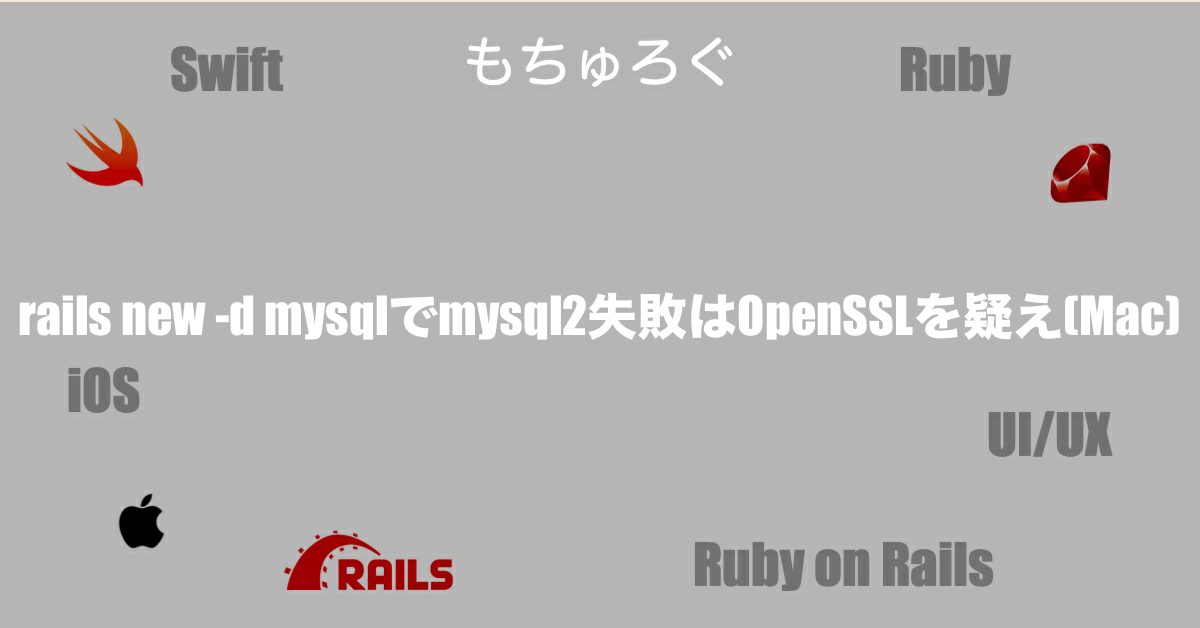
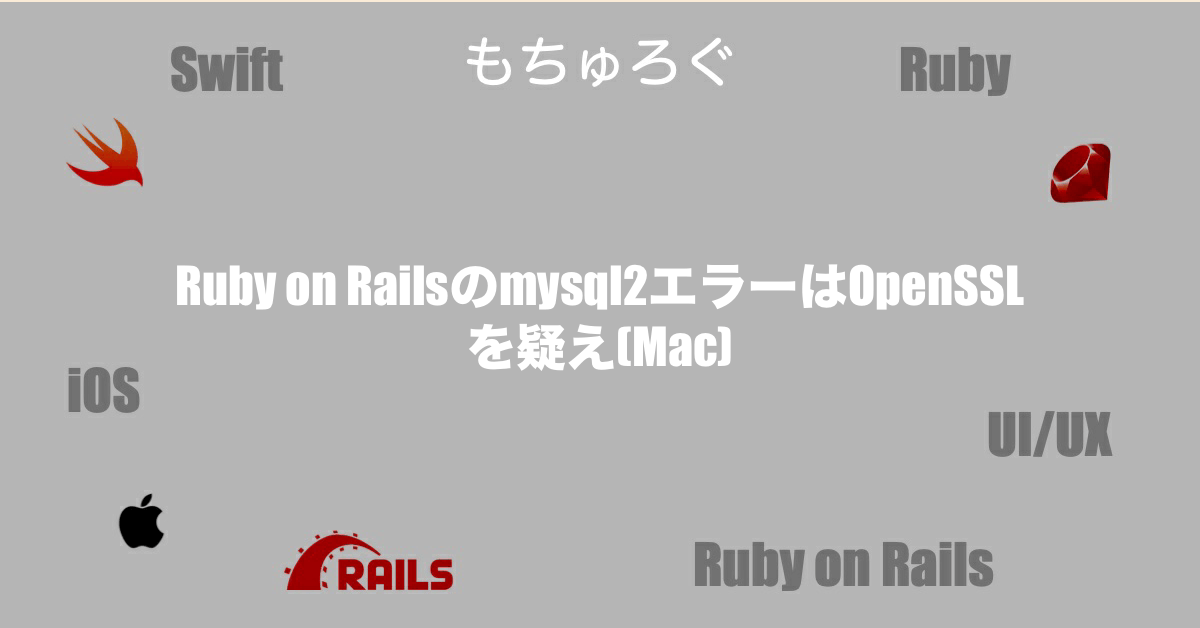
Deploy:

Changed region(s): [[0.0, 0.4236, 0.9867, 0.6051]]

diff --git a/docs/ruby/rails/ruby-rails-mysql2-error.html b/docs/ruby/rails/ruby-rails-mysql2-error.html
@@ -4,15 +4,15 @@
     <meta charset="utf-8">
     <meta name="viewport" content="width=device-width, initial-scale=1">
     
-      <title>rails new -d mysqlでmysql2失敗はOpenSSLを疑え(Mac) - もちゅろぐ</title>
+      <title>Ruby on Railsのmysql2エラーはOpenSSLを疑え(Mac) - もちゅろぐ</title>
     
 
     <!-- Begin Jekyll SEO tag v2.5.0 -->
 <meta name="generator" content="Jekyll v3.8.5" />
-<meta property="og:title" content="rails new -d mysqlでmysql2失敗はOpenSSLを疑え(Mac)" />
+<meta property="og:title" content="Ruby on Railsのmysql2エラーはOpenSSLを疑え(Mac)" />
 <meta property="og:locale" content="ja_JP" />
-<meta name="description" content="前提環境" />
-<meta property="og:description" content="前提環境" />
+<meta name="description" content="Mac上でRuby on Railsのrails newでDatabaseはMySQL使ったらmysql2でインストールエラー起きたので調査してOpenSSLの問題特定とbundle configを使ったビルドにOpenSSLパスを渡して解決する手順などをまとめました。" />
+<meta property="og:description" content="Mac上でRuby on Railsのrails newでDatabaseはMySQL使ったらmysql2でインストールエラー起きたので調査してOpenSSLの問題特定とbundle configを使ったビルドにOpenSSLパスを渡して解決する手順などをまとめました。" />
 <link rel="canonical" href="https://blog.mothule.com/ruby/rails/ruby-rails-mysql2-error" />
 <meta property="og:url" content="https://blog.mothule.com/ruby/rails/ruby-rails-mysql2-error" />
 <meta property="og:site_name" content="もちゅろぐ" />
@@ -22,14 +22,14 @@
 <meta name="twitter:card" content="summary_large_image" />
 <meta name="twitter:site" content="@mothule" />
 <script type="application/ld+json">
-{"image":"https://blog.mothule.com/assets/images/2019-03-22-ruby-rails-mysql2-error.png","url":"https://blog.mothule.com/ruby/rails/ruby-rails-mysql2-error","headline":"rails new -d mysqlでmysql2失敗はOpenSSLを疑え(Mac)","dateModified":"2020-02-02T20:33:06+09:00","datePublished":"2019-03-22T00:00:00+09:00","description":"前提環境","mainEntityOfPage":{"@type":"WebPage","@id":"https://blog.mothule.com/ruby/rails/ruby-rails-mysql2-error"},"@type":"BlogPosting","@context":"http://schema.org"}</script>
+{"image":"https://blog.mothule.com/assets/images/2019-03-22-ruby-rails-mysql2-error.png","url":"https://blog.mothule.com/ruby/rails/ruby-rails-mysql2-error","headline":"Ruby on Railsのmysql2エラーはOpenSSLを疑え(Mac)","dateModified":"2020-04-14T06:56:27+09:00","datePublished":"2019-03-22T00:00:00+09:00","description":"Mac上でRuby on Railsのrails newでDatabaseはMySQL使ったらmysql2でインストールエラー起きたので調査してOpenSSLの問題特定とbundle configを使ったビルドにOpenSSLパスを渡して解決する手順などをまとめました。","mainEntityOfPage":{"@type":"WebPage","@id":"https://blog.mothule.com/ruby/rails/ruby-rails-mysql2-error"},"@type":"BlogPosting","@context":"http://schema.org"}</script>
 <!-- End Jekyll SEO tag -->
 
 
     
     
-    <meta name="twitter:title" content="rails new -d mysqlでmysql2失敗はOpenSSLを疑え(Mac)">
-    <meta name="twitter:description" content="前提環境">
+    <meta name="twitter:title" content="Ruby on Railsのmysql2エラーはOpenSSLを疑え(Mac)">
+    <meta name="twitter:description" content="Mac上でRuby on Railsのrails newでDatabaseはMySQL使ったらmysql2でインストールエラー起きたので調査してOpenSSLの問題特定とbundle configを使ったビルドにOpenSSLパスを渡して解決する手順などをまとめました。">
     <meta name="twitter:image:src" content="https://blog.mothule.com/assets/images/2019-03-22-ruby-rails-mysql2-error.png">
 
     <link href="https://stackpath.bootstrapcdn.com/bootstrap/4.3.1/css/bootstrap.min.css"
@@ -135,7 +135,7 @@
         
         
           <li>
-            rails new -d mysqlでmysql2失敗はOpenSSLを疑え(Mac)
+            Ruby on Railsのmysql2エラーはOpenSSLを疑え(Mac)
           </li>
         
       
@@ -149,12 +149,12 @@
 
   
     <div class="eye-catch">
-      <img style="width: 100%; object-fix: contain;" src="/assets/images/2019-03-22-ruby-rails-mysql2-error.png" alt="rails new -d mysqlでmysql2失敗はOpenSSLを疑え(Mac)">
+      <img style="width: 100%; object-fix: contain;" src="/assets/images/2019-03-22-ruby-rails-mysql2-error.png" alt="Ruby on Railsのmysql2エラーはOpenSSLを疑え(Mac)">
     </div>
   
 
   <div class="post-content-title border-bottom mb-4">
-    <h1>rails new -d mysqlでmysql2失敗はOpenSSLを疑え(Mac)</h1>
+    <h1>Ruby on Railsのmysql2エラーはOpenSSLを疑え(Mac)</h1>
 
     <div class="post-content-tags">
       <ul class="list-inline">
@@ -173,18 +173,45 @@
   <div class="post-content-toc">
     <p>Table of Contents</p>
     <ul>
-  <li><a href="#前提環境">前提環境</a></li>
-  <li><a href="#rails-new-のときに-mysql-を指定">rails new のときに mysql を指定</a></li>
-  <li><a href="#rails-newでmysql2のインストールが失敗する">rails newでmysql2のインストールが失敗する</a></li>
-  <li><a href="#brewでopensslがインストールされてなければopensslをインストールする">brewでopensslがインストールされてなければ、opensslをインストールする</a></li>
-  <li><a href="#bundle-configでmysql2のビルドオプションを変更する">bundle configでmysql2のビルドオプションを変更する</a></li>
-  <li><a href="#rails-newでのbundle-installをしないようにする">rails newでのbundle installをしないようにする</a></li>
-  <li><a href="#改めてbundle-configでmysql2のビルドコンフィグを設定">改めてbundle configでmysql2のビルドコンフィグを設定</a></li>
-  <li><a href="#bundle-installを実行">bundle installを実行</a></li>
+  <li><a href="#rails-newのmysql2インストールが失敗する">rails newのmysql2インストールが失敗する</a>
+    <ul>
+      <li><a href="#前提環境">前提環境</a></li>
+      <li><a href="#rails-newのときにmysqlを指定">rails newのときにMySQLを指定</a></li>
+      <li><a href="#mysql2-gemのインストールに失敗する">mysql2 gemのインストールに失敗する</a></li>
+    </ul>
+  </li>
+  <li><a href="#mysql2のsslエラー原因を調査する">mysql2のsslエラー原因を調査する</a>
+    <ul>
+      <li><a href="#opensslがインストールされているか確認する">OpenSSLがインストールされているか確認する</a>
+        <ul>
+          <li><a href="#opensslとはツールキットである">OpenSSLとはツールキットである</a></li>
+        </ul>
+      </li>
+      <li><a href="#brewでopensslをインストールする">brewでOpenSSLをインストールする</a></li>
+      <li><a href="#mysql2インストールのリンクで見つけられるようにする">mysql2インストールのリンクで見つけられるようにする</a></li>
+    </ul>
+  </li>
+  <li><a href="#mysql2のビルド設定にopensslパスを渡す">mysql2のビルド設定にOpenSSLパスを渡す</a>
+    <ul>
+      <li><a href="#bundle-configでopensslパス情報を渡す">bundle configでOpenSSLパス情報を渡す</a></li>
+      <li><a href="#rails-newでのbundle-installをしないようにする">rails newでのbundle installをしないようにする</a></li>
+    </ul>
+  </li>
+  <li><a href="#mysql2にsslパスを通してbundle-installを実行">mysql2にSSLパスを通してbundle installを実行</a></li>
+  <li><a href="#rails-newでmysql2エラーの対処法まとめ">rails newでmysql2エラーの対処法まとめ</a></li>
 </ul>
   </div>
   <section>
-  <h2 id="前提環境">前提環境</h2>
+  <p>この記事はMac上でRuby on Railsで新しくアプリケーションを作る時にデータベースをMySQLを指定したらmysql2 gemが失敗したので調査したらOpenSSLに問題があったのでその時に調べたことをまとめた記事です。</p>
+
+<h2 id="rails-newのmysql2インストールが失敗する">rails newのmysql2インストールが失敗する</h2>
+
+<p>ことの始まりは、Ruby on Railsでアプリを調査する必要があったため、MySQLの古いバージョンでRailsアプリケーションを作成しました。
+しかし、MySQLアダプタであるmysql2 gemのインストールでエラーが発生しました。</p>
+
+<p>構築しようとしたときの環境は次の通りです。</p>
+
+<h3 id="前提環境">前提環境</h3>
 
 <ul>
   <li>MacOS Mojave 10.14.2</li>
@@ -201,18 +228,20 @@
   <li>rails 5.0.7.2</li>
 </ul>
 
-<p>上記構成でrailsアプリを作るときに初めからdatabaseをMySQLにしたら、いくつか失敗したのでその解消法についてまとめます。</p>
+<p>MySQLのバージョンが5.6系と非常に古いバージョンになります。</p>
 
-<h2 id="rails-new-のときに-mysql-を指定">rails new のときに mysql を指定</h2>
-<p>デフォルトだとsqliteになってdatabase.ymlを書き直さないといけないので初めからdatabaseをmysqlに指定したい場合</p>
+<h3 id="rails-newのときにmysqlを指定">rails newのときにMySQLを指定</h3>
+<p>データベースはデフォルトだとSQLiteになってdatabase.ymlを書き直さないといけないので初めからdatabaseをmysqlに指定したい場合は、<code class="highlighter-rouge">-d</code> または <code class="highlighter-rouge">--database</code> オプションで<code class="highlighter-rouge">mysql</code>を指定します。</p>
 
 <div class="language-sh highlighter-rouge"><div class="highlight"><pre class="highlight"><code><span class="nv">$ </span>rails new &lt;app name&gt; <span class="nt">-d</span> mysql
 </code></pre></div></div>
-<p>または</p>
-<div class="language-sh highlighter-rouge"><div class="highlight"><pre class="highlight"><code><span class="nv">$ </span>rails new &lt;app name&gt; <span class="nt">-database</span><span class="o">=</span>mysql
-</code></pre></div></div>
 
-<h2 id="rails-newでmysql2のインストールが失敗する">rails newでmysql2のインストールが失敗する</h2>
+<p><code class="highlighter-rouge">&lt;app name&gt;</code>は適当にアプリ名を入れてください。
+このコマンドを実行します。</p>
+
+<h3 id="mysql2-gemのインストールに失敗する">mysql2 gemのインストールに失敗する</h3>
+
+<p>コマンドを実行すると次のようなエラーログが出力されます。</p>
 
 <div class="language-sh highlighter-rouge"><div class="highlight"><pre class="highlight"><code><span class="nv">$ </span>rails new &lt;app name&gt; <span class="nt">-d</span> mysql
 ...
@@ -280,41 +309,126 @@ In Gemfile:
 Could not find gem <span class="s1">'mysql2 (&lt; 0.6.0, &gt;= 0.3.18)'</span> <span class="k">in </span>any of the gem sources listed <span class="k">in </span>your Gemfile.
 </code></pre></div></div>
 
-<p>↑よく見ると、どうやら失敗してそうなのはOpenSSL周りが怪しそう↓</p>
+<p>このログを見ると、どうやら失敗してそうなのはOpenSSL周りが怪しそうです。以下は怪しそうな箇所をログ抜粋したもの</p>
+
 <div class="highlighter-rouge"><div class="highlight"><pre class="highlight"><code>checking for SSL_MODE_DISABLED in mysql.h... no
 checking for MYSQL_OPT_SSL_ENFORCE in mysql.h... no
 ...
 ld: library not found for -lssl
 </code></pre></div></div>
 
-<h2 id="brewでopensslがインストールされてなければopensslをインストールする">brewでopensslがインストールされてなければ、opensslをインストールする</h2>
+<p><code class="highlighter-rouge">no</code>と言われてますし、 なにより<code class="highlighter-rouge">ld</code>コマンドでライブラリがないと言ってます。<br />
+ちなみにldコマンドの<code class="highlighter-rouge">-l</code>オプションでは<code class="highlighter-rouge">ssh</code>が指定された場合は<code class="highlighter-rouge">libssl.a</code>というファイルを検索します。<br />
+そのためここでは<code class="highlighter-rouge">libssl.a</code>ファイルが見つからないということになります。</p>
+
+<h2 id="mysql2のsslエラー原因を調査する">mysql2のsslエラー原因を調査する</h2>
+
+<p>仮にSSLが原因だと仮定して調査します。<br />
+ではなぜsslエラーが起きているのでしょうか？</p>
+
+<h3 id="opensslがインストールされているか確認する">OpenSSLがインストールされているか確認する</h3>
+
+<p>Macで使われるSSLライブラリはOpenSSLとなります。<br />
+このライブラリがインストールされているかを確認します。<br />
+確認方法は<code class="highlighter-rouge">openssl version</code>でバージョン返せばインストールされてることを確認できます。<br />
+私の環境では次のバージョンです。</p>
+
+<div class="language-sh highlighter-rouge"><div class="highlight"><pre class="highlight"><code><span class="nv">$ </span>openssl version
+LibreSSL 2.6.5
+</code></pre></div></div>
+
+<h4 id="opensslとはツールキットである">OpenSSLとはツールキットである</h4>
+<p>OpenSSLとは、TLS/SSLツールキットであり汎用暗号ライブラリです。<br />
+様々ながプラットフォームで利用可能なため一般的に広く認知されています。</p>
+
+<p><code class="highlighter-rouge">LibreSSL</code>とは過去のハートブリード問題をうけてOpenSSLからフォークされたライブラリです。</p>
+
+<h3 id="brewでopensslをインストールする">brewでOpenSSLをインストールする</h3>
+
+<p>もしOpenSSLが未インストールであるならHomebrewを使って、次のコマンドで簡単にインストールできます。</p>
+
 <div class="language-sh highlighter-rouge"><div class="highlight"><pre class="highlight"><code><span class="nv">$ </span>brew install openssl
 </code></pre></div></div>
 
-<h2 id="bundle-configでmysql2のビルドオプションを変更する">bundle configでmysql2のビルドオプションを変更する</h2>
-<p>bundleに対してmysql2インストール時に先程インストールしたopnesslのlibとheaderのパスを指定すれば良いらしい
-<strong>しかしbundleはおろかrails newも未実行なのでbundle configはできない。</strong></p>
+<p>インストールが終わったらきちんと動くか<code class="highlighter-rouge">openssl version</code>で確認してみてください。</p>
+
+<h3 id="mysql2インストールのリンクで見つけられるようにする">mysql2インストールのリンクで見つけられるようにする</h3>
+<p>OpenSSLをインストールしただけではmysql2のインストール時にどこにあるのか分からないままなので失敗してしまいます。<br />
+そのためインストールの工程の一つであるビルド時にOpenSSLのライブラリとヘッダーのパス情報を渡してあげる必要があります。</p>
+
+<p>通常でgemでのインストール時にパス情報を渡しますが、今回はbundler配下なのでbundleを通してパス情報を渡します。</p>
+
+<h2 id="mysql2のビルド設定にopensslパスを渡す">mysql2のビルド設定にOpenSSLパスを渡す</h2>
+
+<p>仮定ではありますが、mysql2のビルド時にSSLライブラリのパスが通っていないと見越して、ビルド設定にOpenSSLのパスを渡すことをトライしてみましょう。</p>
+
+<h3 id="bundle-configでopensslパス情報を渡す">bundle configでOpenSSLパス情報を渡す</h3>
+
+<p>bundleを通してパス情報を渡すには、<code class="highlighter-rouge">bundle config</code>を使い次のように渡します。</p>
+
 <div class="language-sh highlighter-rouge"><div class="highlight"><pre class="highlight"><code><span class="nv">$ </span>bundle config <span class="nt">--local</span> build.mysql2 <span class="s2">"--with-ldflags=-L/usr/local/opt/openssl/lib --with-cppflags=-I/usr/local/opt/openssl/include"</span>
 </code></pre></div></div>
 
-<h2 id="rails-newでのbundle-installをしないようにする">rails newでのbundle installをしないようにする</h2>
-<p>mysql2へのビルドコンフィグを設定できるためにbundle installはスキップさせたい。
-これは簡単に出来る。</p>
+<p><code class="highlighter-rouge">build.mysql2</code> とすることでmysql2のビルド時に後ろの文字列を引数として渡すことができます。
+<code class="highlighter-rouge">--local</code>とすることでこのディレクトリだけの設定となります。</p>
 
-<div class="language-sh highlighter-rouge"><div class="highlight"><pre class="highlight"><code>rails new &lt;app name&gt; <span class="nt">--skip-bundle</span>
+<p><strong>▼もしこの引数の渡し方でダメな場合は、新しい方法で試してみてください。mysql2が新しくなったことで渡すオプションも変わっています。</strong></p>
+<div class="link-container">
+  <a href="/ruby/rails/ruby-rails-mysql56-mysql2-error-fix">
+    <div class="link-container-image">
+      <img src="/assets/images/2019-07-30-ruby-rails-mysql56-mysql2-error-fix.png" />
+    </div>
+    <div class="link-container-summary">
+      <div class="link-container-summary-title">
+        <span>Railsとmysql@5.6で発生するmysql2インストールエラーの対処法が変わってた</span>
+      </div>
+      <div class="link-container-summary-brief">
+        <span>
+MySQLを最新ではなく5.6で環境構築する機会がありました。
+その時にOpenSSL要因で発生するmysql2がインストールできないエラーの対処法が従来より知ってる方法ではうまく行かず別の方法に変わっていました。
+
+従来は --with-ldflagsと --with-cppflags指定だった
+
+自分が知っている方法はldflagsとcppflagsでOpenSSLのヘッダーファイル群のパスとライブラリファイル群のパスを指定する方法でした。
+
+しかし、この方法だとエラーが発生するように...</span>
+      </div>
+    </div>
+  </a>
+</div>
+
+<h3 id="rails-newでのbundle-installをしないようにする">rails newでのbundle installをしないようにする</h3>
+
+<p>既に<code class="highlighter-rouge">rails new</code>を実行済みであれば前述した<code class="highlighter-rouge">bundle config</code>は使えます。<br />
+<strong>しかしbundleはおろかrails newも未実行なのでbundle configはできないです。</strong></p>
+
+<p><code class="highlighter-rouge">rails new</code>すると<code class="highlighter-rouge">mysql2</code>が失敗する。しかし<code class="highlighter-rouge">mysql2</code>にビルドコンフィグを渡すには<code class="highlighter-rouge">rails new</code>が必要…というデッドロック状態です。<br />
+<strong>これを回避するには、<code class="highlighter-rouge">rails new</code>のときに<code class="highlighter-rouge">bundle install</code>をスキップさせます。</strong><br />
+これはオプションで<code class="highlighter-rouge">--skip-bundle</code>を追加するだけで<code class="highlighter-rouge">bundle install</code>がスキップされます。</p>
+
+<div class="language-sh highlighter-rouge"><div class="highlight"><pre class="highlight"><code><span class="nv">$ </span>rails new &lt;app name&gt; <span class="nt">--skip-bundle</span>
 </code></pre></div></div>
-<p>これだけでbundle installが実行されなくなる。</p>
 
-<h2 id="改めてbundle-configでmysql2のビルドコンフィグを設定">改めてbundle configでmysql2のビルドコンフィグを設定</h2>
+<p>これで<code class="highlighter-rouge">rails new</code>実行完了後に改めて<code class="highlighter-rouge">bundle config</code>でパス情報を渡します。</p>
 
-<div class="language-sh highlighter-rouge"><div class="highlight"><pre class="highlight"><code><span class="nv">$ </span>bundle config <span class="nt">--local</span> build.mysql2 <span class="s2">"--with-ldflags=-L/usr/local/opt/openssl/lib --with-cppflags=-I/usr/local/opt/openssl/include"</span>
-</code></pre></div></div>
+<h2 id="mysql2にsslパスを通してbundle-installを実行">mysql2にSSLパスを通してbundle installを実行</h2>
+<p>OpenSSLをインストール済みの状態で、<code class="highlighter-rouge">rails new</code>を<code class="highlighter-rouge">--skip-bundle</code>で実行、<code class="highlighter-rouge">bundle config</code>でOpenSSLライブラリのパス情報を渡す設定をした状態で、もう一度<code class="highlighter-rouge">bundle install</code>で<code class="highlighter-rouge">mysql2</code>のインストールをトライとなります。</p>
 
-<h2 id="bundle-installを実行">bundle installを実行</h2>
 <div class="language-sh highlighter-rouge"><div class="highlight"><pre class="highlight"><code><span class="nv">$ </span>bundle install <span class="nt">-j4</span> <span class="nt">--path</span><span class="o">=</span>vendor/bundle
 </code></pre></div></div>
 
-<p>これで初期状態からmysqlをdatabaseにしたrailsアプリが出来上がると思います。</p>
+<p>これで初期状態からMySQLをDatabaseにしたRailsアプリが出来上がると思います。</p>
+
+<h2 id="rails-newでmysql2エラーの対処法まとめ">rails newでmysql2エラーの対処法まとめ</h2>
+
+<p>エラー要因でOpenSSLが怪しい場合は次の対処を試してみてください。</p>
+
+<ol>
+  <li>OpenSSLをインストール</li>
+  <li><code class="highlighter-rouge">rails new</code>を<code class="highlighter-rouge">--skip-bundle</code>で実行</li>
+  <li><code class="highlighter-rouge">bundle config</code>で<code class="highlighter-rouge">mysql2</code>のビルド設定にOpenSSLライブラリのパスを渡す</li>
+  <li><code class="highlighter-rouge">bundle install</code>実行</li>
+</ol>
 
 <p>うまくいかない場合は別の要因かもしれません。</p>
 

diff --git a/docs/tags.html b/docs/tags.html
@@ -863,7 +863,7 @@
         
           <li>
             <a href="/ruby/rails/ruby-rails-mysql2-error">
-              rails new -d mysqlでmysql2失敗はOpenSSLを疑え(Mac)
+              Ruby on Railsのmysql2エラーはOpenSSLを疑え(Mac)
             </a>
           </li>
         
@@ -1041,7 +1041,7 @@
         
           <li>
             <a href="/ruby/rails/ruby-rails-mysql2-error">
-              rails new -d mysqlでmysql2失敗はOpenSSLを疑え(Mac)
+              Ruby on Railsのmysql2エラーはOpenSSLを疑え(Mac)
             </a>
           </li>
         
@@ -1435,7 +1435,7 @@
         
           <li>
             <a href="/ruby/rails/ruby-rails-mysql2-error">
-              rails new -d mysqlでmysql2失敗はOpenSSLを疑え(Mac)
+              Ruby on Railsのmysql2エラーはOpenSSLを疑え(Mac)
             </a>
           </li>
         

diff --git a/docs/categories/rails.html b/docs/categories/rails.html
@@ -304,9 +304,9 @@
   
     <div class="article thumbnail">
   <a href="/ruby/rails/ruby-rails-mysql2-error">
-    <img src="/assets/images/2019-03-22-ruby-rails-mysql2-error.png" alt="rails new -d mysqlでmysql2失敗はOpenSSLを疑え(Mac)" style="width: 340px; object-fit: contain;">
+    <img src="/assets/images/2019-03-22-ruby-rails-mysql2-error.png" alt="Ruby on Railsのmysql2エラーはOpenSSLを疑え(Mac)" style="width: 340px; object-fit: contain;">
     <div class="caption">
-      <h2>rails new -d mysqlでmysql2失敗はOpenSSLを疑え(Mac)</h2>
+      <h2>Ruby on Railsのmysql2エラーはOpenSSLを疑え(Mac)</h2>
       <ul class="list-inline">
         <li class="list-inline-item secondary-text">2019-3-22</li>
         

diff --git a/docs/tags/rails.html b/docs/tags/rails.html
@@ -372,9 +372,9 @@
   
     <div class="article thumbnail">
   <a href="/ruby/rails/ruby-rails-mysql2-error">
-    <img src="/assets/images/2019-03-22-ruby-rails-mysql2-error.png" alt="rails new -d mysqlでmysql2失敗はOpenSSLを疑え(Mac)" style="width: 340px; object-fit: contain;">
+    <img src="/assets/images/2019-03-22-ruby-rails-mysql2-error.png" alt="Ruby on Railsのmysql2エラーはOpenSSLを疑え(Mac)" style="width: 340px; object-fit: contain;">
     <div class="caption">
-      <h2>rails new -d mysqlでmysql2失敗はOpenSSLを疑え(Mac)</h2>
+      <h2>Ruby on Railsのmysql2エラーはOpenSSLを疑え(Mac)</h2>
       <ul class="list-inline">
         <li class="list-inline-item secondary-text">2019-3-22</li>
         

diff --git a/docs/page3/index.html b/docs/page3/index.html
@@ -608,9 +608,9 @@
 
   <div class="article thumbnail">
   <a href="/ruby/rails/ruby-rails-mysql2-error">
-    <img src="/assets/images/2019-03-22-ruby-rails-mysql2-error.png" alt="rails new -d mysqlでmysql2失敗はOpenSSLを疑え(Mac)" style="width: 340px; object-fit: contain;">
+    <img src="/assets/images/2019-03-22-ruby-rails-mysql2-error.png" alt="Ruby on Railsのmysql2エラーはOpenSSLを疑え(Mac)" style="width: 340px; object-fit: contain;">
     <div class="caption">
-      <h2>rails new -d mysqlでmysql2失敗はOpenSSLを疑え(Mac)</h2>
+      <h2>Ruby on Railsのmysql2エラーはOpenSSLを疑え(Mac)</h2>
       <ul class="list-inline">
         <li class="list-inline-item secondary-text">2019-3-22</li>
         
